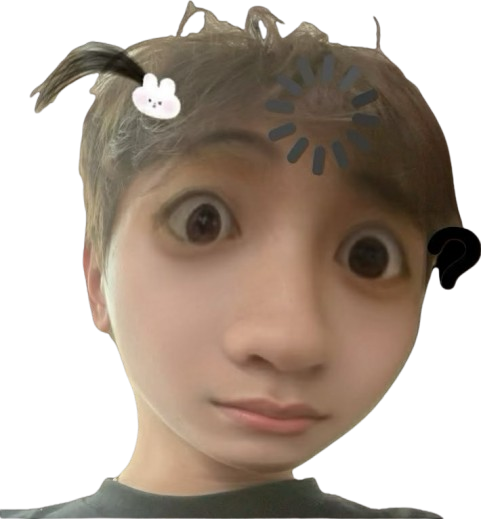
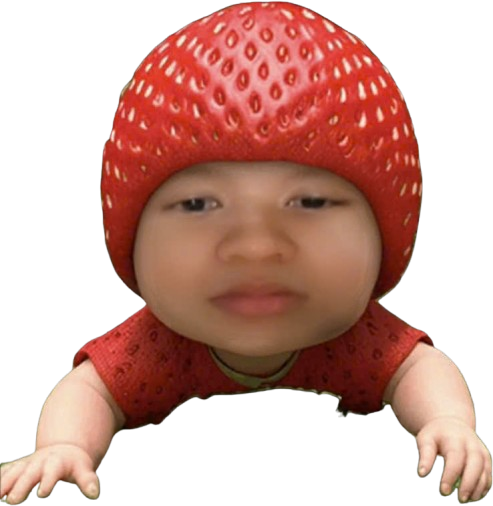
haooooooo

diff --git a/index.html b/index.html
@@ -1123,7 +1123,49 @@ if (soundControl) soundControl.style.display = 'block';
   })();
 </script>
 
-
+<!-- Hiệu ứng trái tim ♥ rơi từ khoảng không -->
+<div id="rainHeart" class="rain-heart"></div>
+<script>
+  // Hiệu ứng trái tim ♥ rơi chậm, nhỏ
+  (function() {
+    const rainContainer = document.getElementById('rainHeart');
+    if (!rainContainer) return;
+    
+    function createHeart() {
+      const heart = document.createElement('div');
+      heart.className = 'heart-fall';
+      heart.textContent = '♥';
+      heart.style.color = '#ffffff';
+      
+      // Vị trí ngang ngẫu nhiên
+      const leftPos = Math.random() * 100;
+      heart.style.left = leftPos + '%';
+      
+      // Kích thước nhỏ hơn (8px - 18px)
+      const size = 15 + Math.random() * 25;
+      heart.style.fontSize = size + 'px';
+      
+      // Tốc độ rơi CHẬM HƠN (5s - 10s)
+      const duration = 5 + Math.random() * 5;
+      heart.style.animationDuration = duration + 's';
+      
+      rainContainer.appendChild(heart);
+      
+      // Xóa tim sau khi rơi xong
+      setTimeout(() => {
+        if (heart && heart.remove) heart.remove();
+      }, duration * 1000);
+    }
+    
+    // Tạo tim mới mỗi 0.4 giây (ít hơn)
+    setInterval(createHeart, 400);
+    
+    // Tạo 3 tim ban đầu
+    for (let i = 0; i < 3; i++) {
+      setTimeout(createHeart, i * 100);
+    }
+  })();
+</script>
 </body>
 <!-- Video Background -->
 <video autoplay muted loop playsinline id="bgVideo" style="position: fixed; right: 0; bottom: 0; min-width: 100%; min-height: 100%; width: auto; height: auto; z-index: -2; object-fit: cover;">

diff --git a/index.561f1d30.css b/index.561f1d30.css
@@ -3226,3 +3226,35 @@ a, button, .social li, .info-btn, .avatar, .name {
     transform: scale3d(1.02, 0.98, 1);
   }
 }
+
+/* Hiệu ứng trái tim rơi xuyên xuống dưới đáy */
+.rain-heart {
+  position: fixed;
+  top: 0;
+  left: 0;
+  width: 100%;
+  height: 100%;
+  pointer-events: none;
+  z-index: 9999;
+  overflow: hidden;
+}
+
+.heart-fall {
+  position: absolute;
+  font-size: 14px;
+  font-weight: normal;
+  color: #ffffff;
+  white-space: nowrap;
+  user-select: none;
+  pointer-events: none;
+  animation: fallHeart linear infinite;
+}
+
+@keyframes fallHeart {
+  0% {
+    transform: translateY(-50px) rotate(0deg);
+  }
+  100% {
+    transform: translateY(calc(100vh + 200px)) rotate(360deg);  /* Xuyên xuống dưới đáy 200px */
+  }
+}
